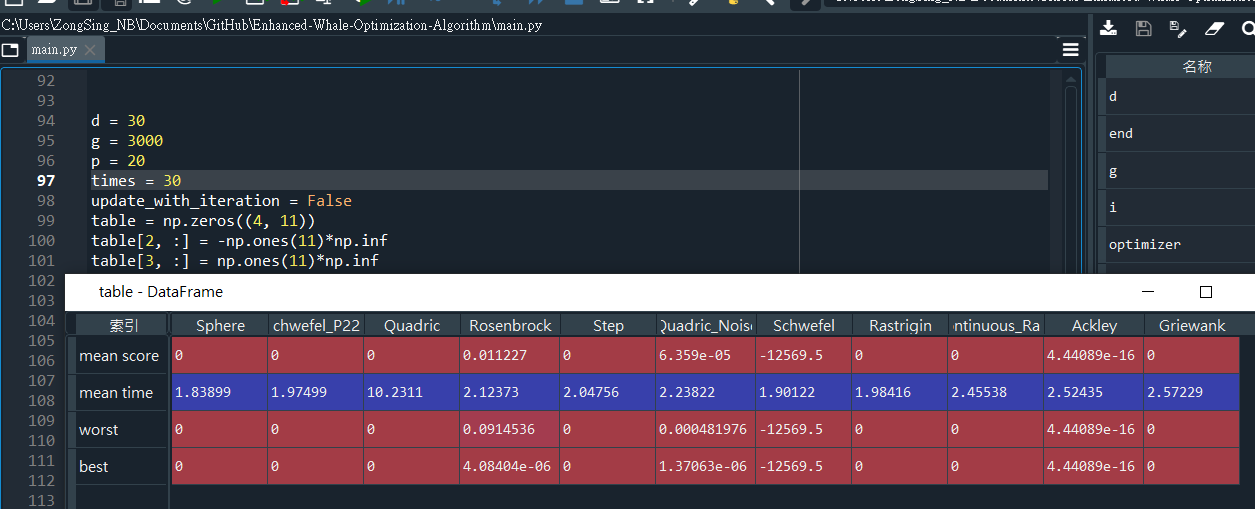
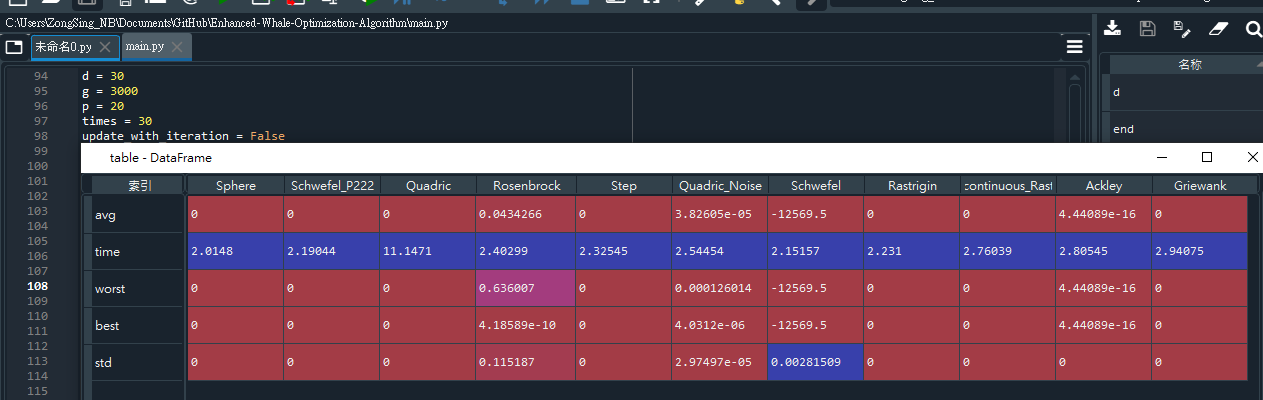
2020.08.20

diff --git a/main.py b/main.py
@@ -95,7 +95,7 @@ d = 30
 g = 3000
 p = 20
 times = 30
-update_with_iteration = True
+update_with_iteration = False
 table = np.zeros((5, 11))
 table[2, :] = -np.ones(11)*np.inf
 table[3, :] = np.ones(11)*np.inf
